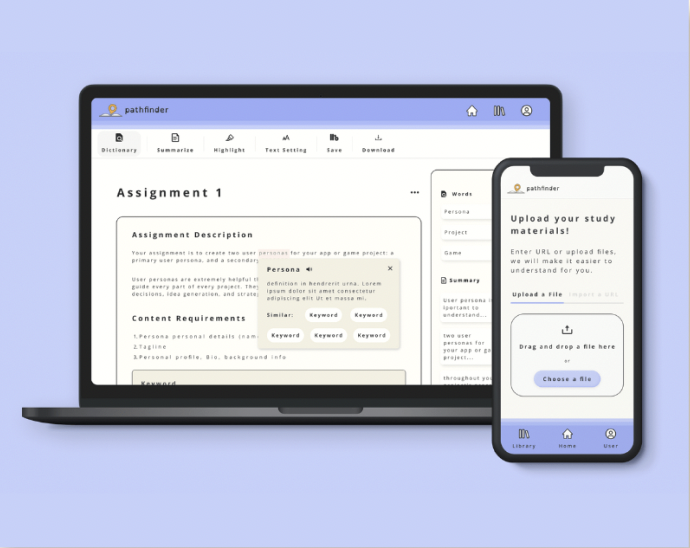
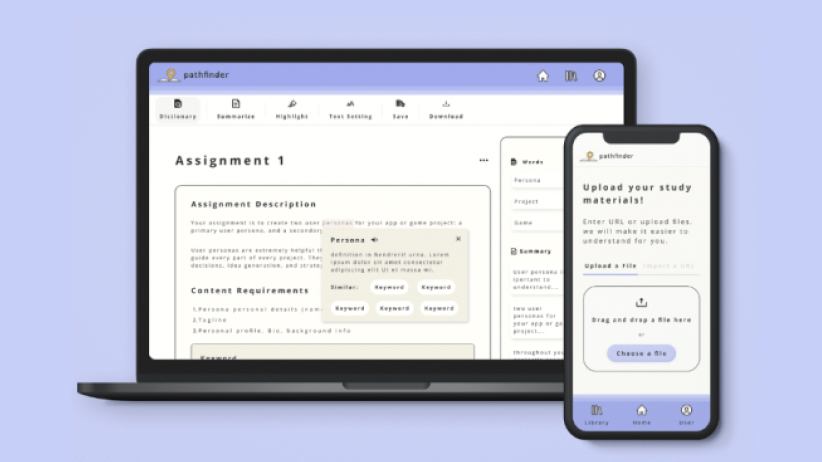
:dizzy: all project content animated and transitioned responsiveness

diff --git a/src/components/ProjectsSection.vue b/src/components/ProjectsSection.vue
@@ -51,6 +51,7 @@
         </div>
       </div>
     </div>
+
     <template v-if="showProjectContent">
       <TextBubble
         class="artifact__text-bubble"
@@ -67,7 +68,10 @@
           />
         </template>
         <template #tools>
-          <div class="media__container">
+          <div
+            v-if="currentProject?.githubLink && currentProject?.productionLink"
+            class="media__container"
+          >
             <Transition
               appear
               :style="{ animationDelay: !skipAnimation ? '3s' : '' }"
@@ -79,7 +83,11 @@
                 :width="mediaIconSize"
               />
             </Transition>
-            <a class="media__link" :href="currentProject?.githubLink!" target="_blank">
+            <a
+              class="media__link"
+              :href="currentProject?.githubLink!"
+              target="_blank"
+            >
               <Typewriter
                 textProp="Github site"
                 delay="4s"
@@ -97,7 +105,11 @@
                 :width="mediaIconSize"
               />
             </Transition>
-            <a class="media__link" :href="currentProject?.productionLink!" target="_blank">
+            <a
+              class="media__link"
+              :href="currentProject?.productionLink!"
+              target="_blank"
+            >
               <Typewriter
                 textProp="Live site"
                 delay="6s"
@@ -204,8 +216,10 @@ export default defineComponent({
         project.classList.remove("animate-fadeOut", "pointer-none");
       });
 
-      this.selectedThumbnail?.classList.add("artifact__thumbnail--hover-animated");
-    
+      this.selectedThumbnail?.classList.add(
+        "artifact__thumbnail--hover-animated"
+      );
+
       projectPageNode.classList.remove("zoom--" + projectName);
       console.log("skipAnimation after", this.skipAnimation);
     },
@@ -222,7 +236,9 @@ export default defineComponent({
       ) as HTMLElement;
 
       artifaceHeader.classList.add("animate-fadeOut", "pointer-none");
-      this.selectedThumbnail.classList.remove("artifact__thumbnail--hover-animated");
+      this.selectedThumbnail.classList.remove(
+        "artifact__thumbnail--hover-animated"
+      );
       parentThumbnail.classList.add("pointer-none");
 
       const artifactContainers = projectPageNode.querySelectorAll(
@@ -235,18 +251,19 @@ export default defineComponent({
         }
       });
 
-      console.log("artifactContainers", artifactContainers);
-
       projectPageNode.classList.add("zoom--" + projectName);
 
       this.currentProject = toRaw(this.projectsData[projectName]);
       this.showProjectContent = true;
       this.skipAnimation = false;
       setTimeout(() => {
-        console.log("skipAnimation after timeout", this.skipAnimation);
         window.addEventListener("click", this.skipAnimationListener, false);
+        const artifactButton = projectPageNode.querySelector(
+          ".artifact__button"
+        ) as HTMLElement;
+        console.log("artifactButton", artifactButton);
+        artifactButton.classList.add("artifact__button--" + projectName);
       }, 1000);
-      // window.addEventListener("click", this.skipAnimationListener);
     },
   },
   mounted() {
@@ -329,7 +346,7 @@ export default defineComponent({
     display: flex;
     position: absolute;
     bottom: 0;
-    width: 100%;
+    width: 120%;
     height: 14rem;
     background-color: $color-soft-orange;
   }
@@ -343,20 +360,75 @@ export default defineComponent({
 
     @include respond(phones) {
       transform: scale(2);
-      left: 40%;
       top: 15%;
     }
 
     @include respond(tablets-portrait) {
+      // still vertical
       transform: scale(2);
       left: 25%;
       top: 15%;
     }
 
     @include respond(tablets-landscape) {
+      // horizontal
       transform: scale(1.5);
       left: -5%;
       top: 30%;
+    }
+  }
+
+  &--loveIsWar {
+    transform: scale(2);
+    left: -40%;
+    top: 10%;
+
+    @include respond(tablets-portrait) {
+      transform: scale(2);
+      left: -25%;
+      top: 15%;
+    }
+
+    @include respond(tablets-landscape) {
+      transform: scale(1.5);
+      left: -45%;
+      top: 30%;
+    }
+  }
+
+  &--pathfinder {
+    transform: scale(2);
+    left: 42%;
+    top: -15%;
+
+    @include respond(tablets-portrait) {
+      transform: scale(2);
+      left: 25%;
+      top: -15%;
+    }
+
+    @include respond(tablets-landscape) {
+      transform: scale(1.5);
+      left: -5%;
+      top: 0%;
+    }
+  }
+
+  &--innota {
+    transform: scale(2);
+    left: -42%;
+    top: -10%;
+
+    @include respond(tablets-portrait) {
+      transform: scale(2);
+      left: -25%;
+      top: -10%;
+    }
+
+    @include respond(tablets-landscape) {
+      transform: scale(1.5);
+      left: -45%;
+      top: 0%;
     }
   }
 }
@@ -397,6 +469,7 @@ export default defineComponent({
       padding: 2rem;
     }
 
+    // TEXT BUBBLE PLACEMENT
     &--trashQueens {
       left: 8%;
       top: 40%;
@@ -416,6 +489,75 @@ export default defineComponent({
         top: 10%;
       }
     }
+
+    &--loveIsWar {
+      left: 48%;
+      top: 40%;
+
+      @include respond(phones) {
+        left: 50%;
+      }
+
+      @include respond(tablets-portrait) {
+        left: 48%;
+        top: 40%;
+      }
+
+      @include respond(tablets-landscape) {
+        left: 80%;
+        top: 15%;
+      }
+
+      @include respond(laptops) {
+        left: 80%;
+        top: 5%;
+      }
+    }
+
+    &--pathfinder {
+      left: 7.5%;
+      top: 53%;
+
+      @include respond(phones) {
+        left: 10%;
+        top: 55%;
+      }
+
+      @include respond(tablets-portrait) {
+        left: 22%;
+        top: 55%;
+      }
+
+      @include respond(tablets-landscape) {
+        left: 53%;
+        top: 33%;
+      }
+    }
+
+    &--innota {
+      left: 49%;
+      top: 49%;
+
+      @include respond(phones) {
+        left: 50%;
+        top: 53%;
+      }
+
+      @include respond(tablets-portrait) {
+        left: 48%;
+        top: 52%;
+      }
+
+      @include respond(tablets-landscape) {
+        left: 80%;
+        top: 33%;
+      }
+
+      @include respond(laptops) {
+        left: 80%;
+        top: 25%;
+      }
+    }
   }
 
   &__tools-container {
@@ -430,7 +572,6 @@ export default defineComponent({
 
     & > p {
       white-space: nowrap;
-      margin-left: 0.5rem;
     }
   }
 
@@ -439,6 +580,7 @@ export default defineComponent({
     height: 100%;
     align-items: center;
     overflow: visible;
+    padding-right: 0.5rem;
   }
 
   &__header {
@@ -465,33 +607,91 @@ export default defineComponent({
         animation: tilt-shaking 0.5s ease-in;
       }
     }
-
-    &--3 {
-      width: 60%;
-      height: 100%;
-    }
   }
 
   &__button {
     position: absolute;
     z-index: 2;
-    left: 27%;
-    bottom: 40%;
     animation: moveUpDown 1s ease-in-out infinite;
 
-    @include respond(phones) {
-      bottom: 38%;
-      left: 28%;
+    &--trashQueens {
+      left: 27%;
+      bottom: 40%;
+
+      @include respond(phones) {
+        bottom: 38%;
+        left: 28%;
+      }
+
+      @include respond(tablets-portrait) {
+        bottom: 38%;
+        left: 35%;
+      }
+
+      @include respond(tablets-landscape) {
+        bottom: 45%;
+        left: 52%;
+      }
     }
 
-    @include respond(tablets-portrait) {
-      bottom: 38%;
-      left: 35%;
+    &--loveIsWar {
+      left: 67%;
+      top: 57%;
+
+      @include respond(phones) {
+        left: 68%;
+        top: 60%;
+      }
+
+      @include respond(tablets-portrait) {
+        left: 61%;
+        top: 60%;
+      }
+
+      @include respond(tablets-landscape) {
+        left: 78%;
+        top: 50%;
+      }
     }
 
-    @include respond(tablets-landscape) {
-      bottom: 45%;
-      left: 52%;
+    &--pathfinder {
+      left: 26%;
+      bottom: 27%;
+
+      @include respond(phones) {
+        left: 27%;
+        bottom: 23%;
+      }
+
+      @include respond(tablets-portrait) {
+        left: 36%;
+        bottom: 23%;
+      }
+
+      @include respond(tablets-landscape) {
+        left: 52%;
+        bottom: 28%;
+      }
+    }
+
+    &--innota {
+      left: 68%;
+      top: 68%;
+
+      @include respond(phones) {
+        left: 68%;
+        top: 72%;
+      }
+
+      @include respond(tablets-portrait) {
+        left: 61%;
+        top: 72%;
+      }
+
+      @include respond(tablets-landscape) {
+        left: 78%;
+        top: 70%;
+      }
     }
   }
 }
